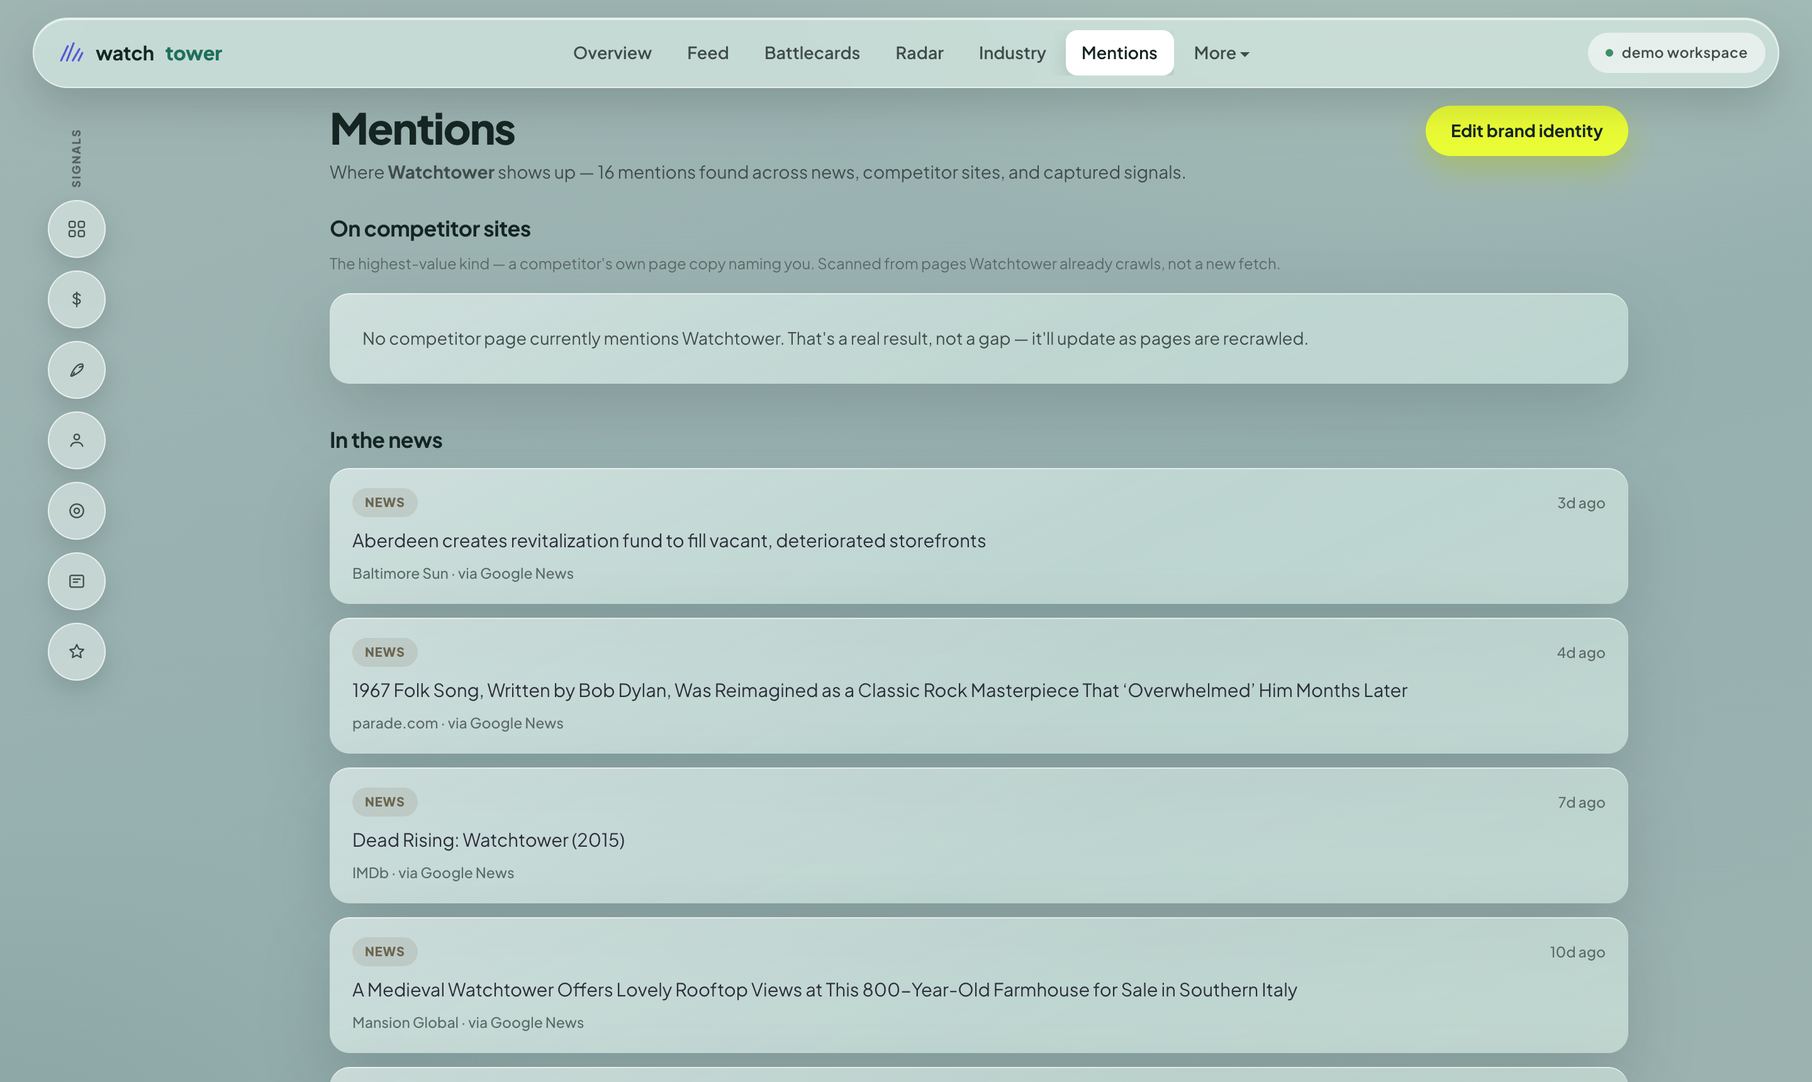
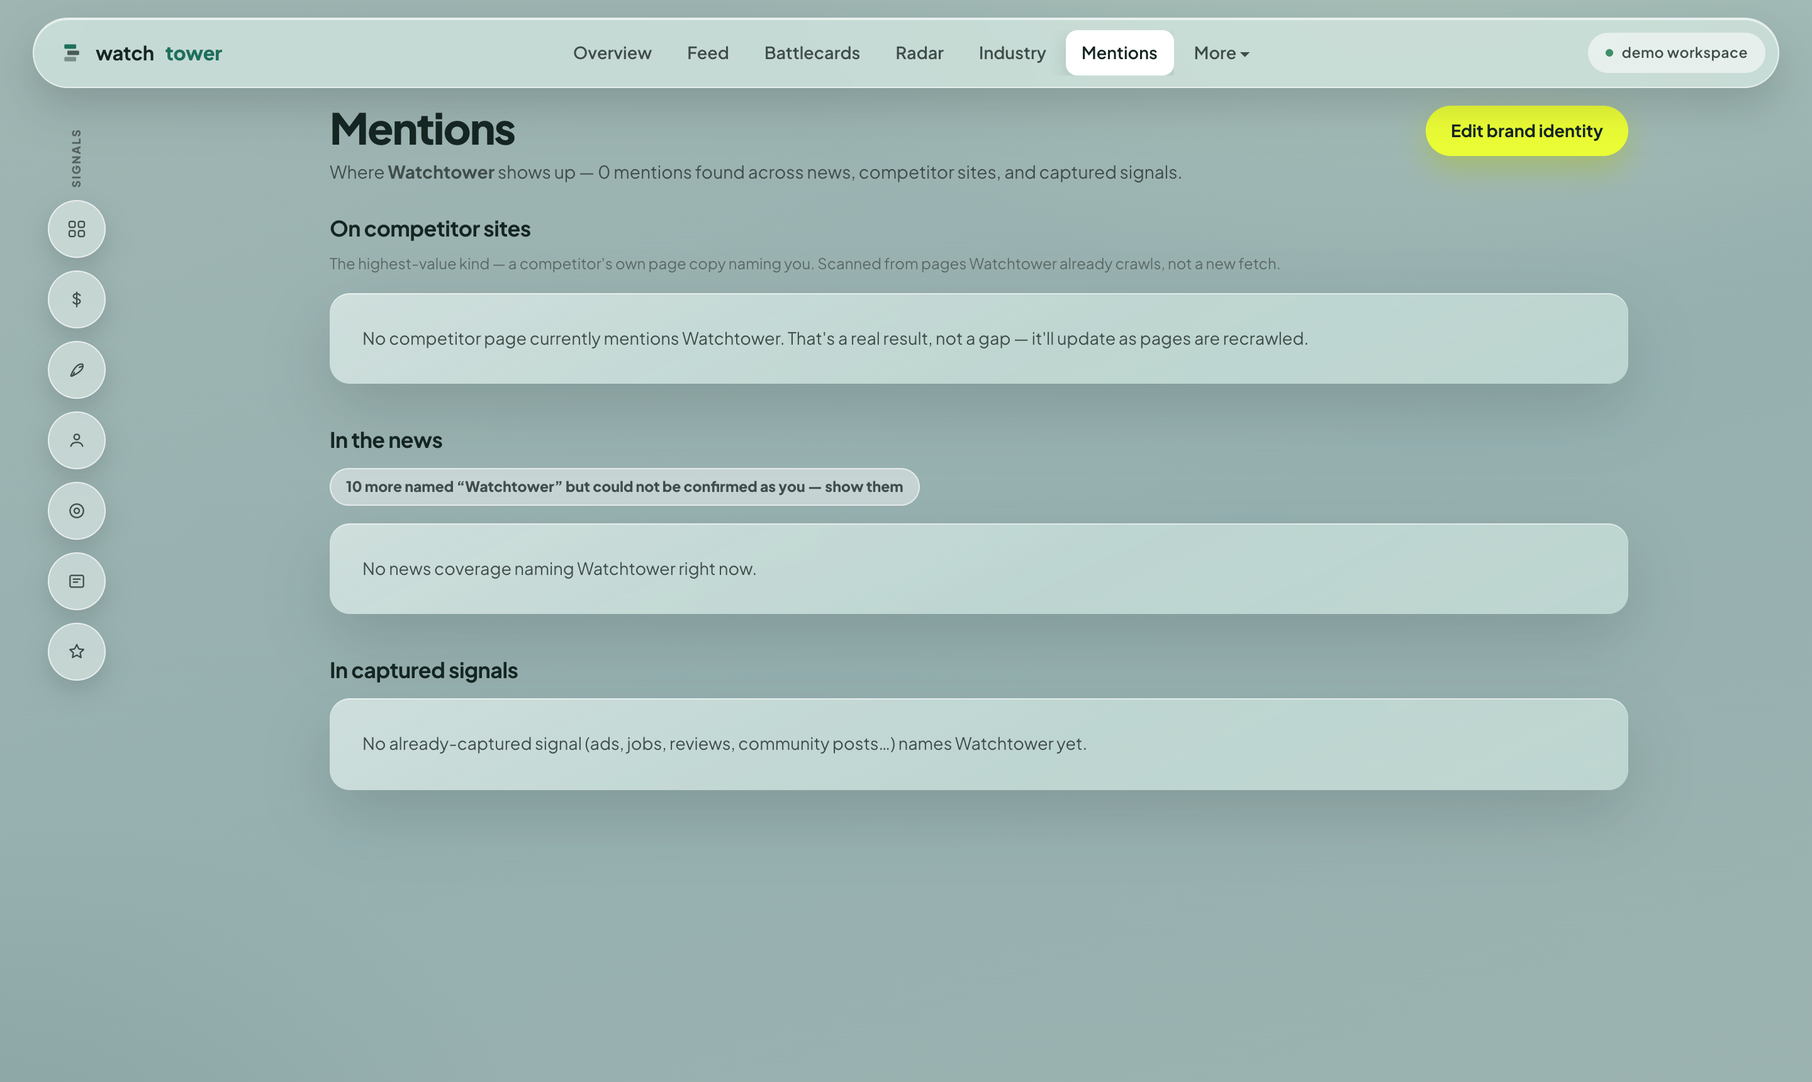
mobile chart + ask, mention disambiguation, fresh screenshots
Overview on a phone
- the chart's 700×190 box scaled to ~300×80: twenty-six needles ten pixels
  apart, which is noise, not a chart. Below 820px it drops to the last
  thirteen weeks in a squarer box and rescales to that window — a six-month
  peak was flattening a three-month view. Caption follows in CSS so the page
  stays server-rendered. Desktop is untouched.
- Ask was a full-width slab: heading, full-width field, full-width button,
  three stacked chips — 300px before any content. Button moves beside the
  field and drops to its glyph, suggestions scroll sideways. Now 134px.
- "Beyond the walls" ran straight on from the scout reports and read as more
  of the same card. It gets its own inset panel.
- the Add-competitor CTA only takes its own row below 360px, not at 375.

Mentions — this is the important one
Searching Google News for "Watchtower" returned ten results: the Dylan/Hendrix
song (x3), a prog-metal band, a 2015 movie, a medieval farmhouse, a DC comic.
Zero about the company. A bare keyword match is an alert, not intelligence,
and it would embarrass us in front of a client with a common brand name.

Every item that carries the brand name is now classified against context the
workspace owns — its domain, its tracked competitors, salient words from its
own description:
  client      corroborated by something the workspace owns  → shown
  same_name   reads as a different entity of the same name  → disclosed
[…]

Changed region(s): [[0.1562, 0.4314, 0.9062, 1.0], [0.3438, 0.1541, 0.6562, 0.1849], [0.0312, 0.0308, 0.0625, 0.0616]]

diff --git a/src/lib/mentions.ts b/src/lib/mentions.ts
@@ -29,12 +29,105 @@ export interface BrandMentions {
   configured: boolean;
   brandName: string;
   news: NewsItem[];
+  /** Read as a different entity sharing the name — reported, never silently dropped. */
+  newsSameName: NewsItem[];
+  /** Carries the name with nothing to confirm or deny it — the honest middle. */
+  newsUnverified: NewsItem[];
+  /** True when the workspace gave us nothing to disambiguate against, so
+   *  `news` is a raw name match rather than a confirmed one. */
+  newsUnconfirmed: boolean;
   siteMentions: SiteMention[];
   signalMentions: SignalMention[];
 }
 
 function escapeRe(s: string): string {
   return s.replace(/[.*+?^${}()|[\]\\]/g, '\\$&');
+}
+
+// Brand names are rarely unique words. Searching Google News for "Watchtower"
+// returns the Jehovah's Witnesses magazine, a thrash band, a venue and a
+// concert listing long before it returns anything about this company. A bare
+// name search is a keyword alert, not intelligence.
+//
+// So the name has to co-occur with something from THIS market before we call
+// it a mention: the brand's own domain, a tracked competitor, or a salient
+// word from how the workspace describes itself. Items that only match the
+// bare name are counted and reported rather than silently dropped — an
+// over-tight filter that hides a real mention is the worse failure.
+const CTX_STOP = new Set([
+  'the', 'and', 'for', 'with', 'that', 'this', 'from', 'into', 'your', 'our', 'their', 'they', 'you', 'are',
+  'was', 'were', 'has', 'have', 'had', 'not', 'but', 'all', 'any', 'can', 'will', 'more', 'most', 'other',
+  'than', 'then', 'them', 'what', 'when', 'which', 'who', 'why', 'how', 'about', 'every', 'each', 'also',
+  'company', 'companies', 'business', 'businesses', 'product', 'products', 'platform', 'team', 'teams',
+  'customer', 'customers', 'people', 'help', 'helps', 'make', 'makes', 'best', 'new', 'get', 'use', 'used',
+]);
+
+function salientWords(text: string | null | undefined, max: number): string[] {
+  if (!text) return [];
+  const seen = new Set<string>();
+  const out: string[] = [];
+  for (const raw of text.toLowerCase().split(/[^a-z0-9-]+/)) {
+    if (raw.length < 4 || CTX_STOP.has(raw) || seen.has(raw)) continue;
+    seen.add(raw);
+    out.push(raw);
+    if (out.length >= max) break;
+  }
+  return out;
+}
+
+/** Terms that, alongside the brand name, mark an item as being about US. */
+export function contextTerms(
+  settings: { brandDomain: string | null; description: string | null; competencies: string | null },
+  competitorNames: string[],
+): string[] {
+  const terms: string[] = [];
+  if (settings.brandDomain) {
+    const bare = settings.brandDomain.replace(/^https?:\/\//, '').replace(/^www\./, '');
+    terms.push(bare);
+    const label = bare.split('.')[0];
+    if (label.length >= 4) terms.push(label);
+  }
+  terms.push(...competitorNames.filter((n) => n.length >= 4).map((n) => n.toLowerCase()));
+  terms.push(...salientWords(settings.description, 6));
+  terms.push(...salientWords(settings.competencies, 4));
+  return [...new Set(terms)].slice(0, 14);
+}
+
+/** What an item that carries the brand name actually turned out to be. */
+export type MentionVerdict = 'client' | 'same_name' | 'unverified';
+
+export interface ClassifiedNews {
+  item: NewsItem;
+  verdict: MentionVerdict;
+  /** The context term that placed it, when there is one. */
+  matched?: string;
+}
+
+// Common senses a short brand word collides with. This never decides on its own
+// — it only downgrades an item that ALSO failed to match any workspace context,
+// so a client genuinely in the music or film business is not silently muted.
+const OTHER_SENSE =
+  /\b(song|album|guitar(ist)?|bassist|drummer|band|tour|concert|gig|setlist|venue|festival|lyrics?|single|remix|rock|metal|episode|season|movie|film|trailer|comic|novel|magazine|church|congregation|castle|fortress|ruins?|medieval)\b/i;
+
+/**
+ * Classify one item that matched the brand name.
+ *
+ * `client`      — corroborated by something this workspace owns
+ * `same_name`   — reads as a different entity of the same name
+ * `unverified`  — carries the name, nothing to confirm or deny it
+ *
+ * The third bucket is the fallback that has to exist: when a workspace has no
+ * domain, no description and no competitors yet, there is nothing to
+ * disambiguate against, and pretending otherwise would either hide real
+ * coverage or wave through a concert listing.
+ */
+export function classifyMention(item: NewsItem, terms: string[]): ClassifiedNews {
+  const hay = `${item.title} ${(item as { description?: string }).description ?? ''} ${item.url}`.toLowerCase();
+  const matched = terms.find((t) => hay.includes(t));
+  if (matched) return { item, verdict: 'client', matched };
+  if (terms.length === 0) return { item, verdict: 'unverified' };
+  if (OTHER_SENSE.test(hay)) return { item, verdict: 'same_name' };
+  return { item, verdict: 'unverified' };
 }
 
 function snippetAround(text: string, index: number, matchLen: number, radius = 90): string {
@@ -48,21 +141,45 @@ function snippetAround(text: string, index: number, matchLen: number, radius = 9
 export async function findBrandMentions(orgId: string): Promise<BrandMentions> {
   const settings = await getBrandSettings(orgId);
   if (!settings.configured || !settings.brandName.trim()) {
-    return { configured: false, brandName: '', news: [], siteMentions: [], signalMentions: [] };
+    return { configured: false, brandName: '', news: [], newsSameName: [], newsUnverified: [], newsUnconfirmed: false, siteMentions: [], signalMentions: [] };
   }
   const names = [settings.brandName, ...settings.aliases].filter(Boolean).slice(0, 4);
   const db = await getDb();
 
-  // 1) News — one RSS search per name/alias (capped), merged and deduped by URL.
-  const newsLists = await Promise.all(names.map((n) => fetchGoogleNewsRss(`"${n}"`, 8)));
+  // 1) News — the name alone is not enough (see contextTerms above). The query
+  // is narrowed with market context, and whatever still comes back is checked
+  // against the same terms before it counts as a mention.
+  const compNames = await db.query<{ name: string }>('SELECT name FROM competitors WHERE org_id = $1', [orgId]);
+  const terms = contextTerms(settings, compNames.map((c) => c.name));
+  const narrow = terms.slice(0, 6).map((t) => `"${t}"`).join(' OR ');
+  // Two passes: the narrowed query is what finds real coverage, and the bare
+  // one exists so we can say how much noise carries the name. Both are cached.
+  const newsLists = await Promise.all([
+    ...names.map((n) => fetchGoogleNewsRss(narrow ? `"${n}" (${narrow})` : `"${n}"`, 8)),
+    ...(narrow ? names.slice(0, 2).map((n) => fetchGoogleNewsRss(`"${n}"`, 10)) : []),
+  ]);
   const seenUrls = new Set<string>();
   const news: NewsItem[] = [];
+  const newsSameName: NewsItem[] = [];
+  const newsUnverified: NewsItem[] = [];
   for (const list of newsLists) {
     for (const item of list) {
       if (seenUrls.has(item.url)) continue;
       seenUrls.add(item.url);
-      news.push(item);
+      const { verdict } = classifyMention(item, terms);
+      if (verdict === 'client') news.push(item);
+      else if (verdict === 'same_name') newsSameName.push(item);
+      else newsUnverified.push(item);
     }
+  }
+  // Fallback. A workspace with no domain, no description and no competitors
+  // yet has nothing to disambiguate against, so EVERYTHING lands in
+  // 'unverified' — and showing that client an empty page would be a worse lie
+  // than showing them an unconfirmed list. Promote it, flagged, and let the
+  // page say why. Once they fill in their identity this branch stops firing.
+  const unconfirmed = terms.length === 0;
+  if (unconfirmed && news.length === 0) {
+    news.push(...newsUnverified.splice(0, newsUnverified.length));
   }
   news.sort((a, b) => (b.publishedAt ?? '').localeCompare(a.publishedAt ?? ''));
 
@@ -106,5 +223,5 @@ export async function findBrandMentions(orgId: string): Promise<BrandMentions> {
     .filter((r) => nameRe.test(r.title))
     .map((r) => ({ competitorName: r.name, competitorSlug: r.slug, channel: r.channel, title: r.title, url: r.url, at: r.published_at ?? r.created_at }));
 
-  return { configured: true, brandName: settings.brandName, news, siteMentions, signalMentions };
+  return { configured: true, brandName: settings.brandName, news, newsSameName, newsUnverified, newsUnconfirmed: unconfirmed, siteMentions, signalMentions };
 }

diff --git a/app/(app)/overview/GlassChart.tsx b/app/(app)/overview/GlassChart.tsx
@@ -2,11 +2,16 @@
 // Interactive needle-bars + momentum-curve chart: the flag and crosshair
 // follow the cursor (nearest week), defaulting to the peak week. Pure SVG,
 // no chart lib — geometry mirrors the server layout so there's no jump.
-import { useMemo, useRef, useState } from 'react';
+import { useEffect, useMemo, useRef, useState } from 'react';
 
 export interface ChartWeek { key: string; nice: string; label: string; product: number; gtm: number; market: number }
 
-const CW = 700, CH = 190, TOP = 64, NEEDLE = 4.5;
+// Desktop is a wide, shallow band. On a phone the same 700×190 box scales to
+// roughly 300×80 — twenty-six needles about ten pixels apart, which reads as
+// noise rather than a chart. The compact view drops to the last thirteen weeks
+// in a squarer box, so each week actually has room.
+const WIDE = { CW: 700, CH: 190, TOP: 64, NEEDLE: 4.5, SPAN: 26 };
+const COMPACT = { CW: 360, CH: 210, TOP: 74, NEEDLE: 7, SPAN: 13 };
 
 function smoothPath(pts: [number, number][]): string {
   if (pts.length < 2) return '';
@@ -18,12 +23,42 @@ function smoothPath(pts: [number, number][]): string {
   return dPath;
 }
 
-export default function GlassChart({ weeks, maxWeek, monthTicks }: { weeks: ChartWeek[]; maxWeek: number; monthTicks: { idx: number; label: string }[] }) {
+export default function GlassChart({ weeks: allWeeks, maxWeek: fullMax, monthTicks: _ignored }: { weeks: ChartWeek[]; maxWeek: number; monthTicks: { idx: number; label: string }[] }) {
+  void _ignored; // ticks are re-derived below, because the window can be sliced
   const svgRef = useRef<SVGSVGElement>(null);
+  const [hover, setHover] = useState<number | null>(null);
+
+  // Measured after mount rather than guessed, so the server and the first
+  // client render agree and there is no hydration mismatch.
+  const [compact, setCompact] = useState(false);
+  useEffect(() => {
+    const mq = window.matchMedia('(max-width: 820px)');
+    const sync = () => setCompact(mq.matches);
+    sync();
+    mq.addEventListener('change', sync);
+    return () => mq.removeEventListener('change', sync);
+  }, []);
+
+  const { CW, CH, TOP, NEEDLE, SPAN } = compact ? COMPACT : WIDE;
+  const weeks = useMemo(() => (allWeeks.length > SPAN ? allWeeks.slice(-SPAN) : allWeeks), [allWeeks, SPAN]);
+  // Rescale to the visible window: a six-month peak flattens a three-month view.
+  const maxWeek = useMemo(
+    () => Math.max(1, ...weeks.map((w) => w.product + w.gtm + w.market)),
+    [weeks],
+  );
+  void fullMax;
+  const monthTicks = useMemo(() => {
+    const out: { idx: number; label: string }[] = [];
+    let last = '';
+    weeks.forEach((w, i) => {
+      if (w.label !== last) { out.push({ idx: i, label: w.label }); last = w.label; }
+    });
+    return out;
+  }, [weeks]);
+
   const totals = useMemo(() => weeks.map((w) => w.product + w.gtm + w.market), [weeks]);
   const peak = useMemo(() => totals.reduce((best, v, i) => (v > totals[best] ? i : best), 0), [totals]);
-  const [hover, setHover] = useState<number | null>(null);
-  const idx = hover ?? peak;
+  const idx = Math.min(hover ?? peak, weeks.length - 1);
 
   const GAP = (CW - 30 - weeks.length * NEEDLE) / (weeks.length + 1);
   const bx = (i: number) => GAP + i * (NEEDLE + GAP);
@@ -42,7 +77,8 @@ export default function GlassChart({ weeks, maxWeek, monthTicks }: { weeks: Char
   const area = `${curve} L ${curvePts[curvePts.length - 1][0]} ${CH} L ${curvePts[0][0]} ${CH} Z`;
 
   const w = weeks[idx];
-  const flagX = Math.min(Math.max(bx(idx) - 62, 4), CW - 178);
+  const FLAG_W = compact ? 186 : 172;
+  const flagX = Math.min(Math.max(bx(idx) - FLAG_W / 2.8, 4), CW - FLAG_W - 6);
 
   function onMove(e: React.MouseEvent<SVGSVGElement>) {
     const rect = svgRef.current?.getBoundingClientRect();
@@ -85,8 +121,8 @@ export default function GlassChart({ weeks, maxWeek, monthTicks }: { weeks: Char
       ))}
       <path d={curve} className="gx-curve" />
       <g className="gx-flag">
-        <line x1={bx(idx) + NEEDLE / 2} y1={84} x2={bx(idx) + NEEDLE / 2} y2={CH - barH(totals[idx])} />
-        <rect x={flagX} y={20} width={172} height={62} rx={12} />
+        <line x1={bx(idx) + NEEDLE / 2} y1={84} x2={bx(idx) + NEEDLE / 2} y2={Math.max(84, CH - barH(totals[idx]))} />
+        <rect x={flagX} y={20} width={FLAG_W} height={62} rx={12} />
         <text x={flagX + 13} y={38} className="gx-flag-d">Week of {w.nice}</text>
         <rect x={flagX + 11} y={45} width={8} height={8} rx={2.5} className="fr1" />
         <text x={flagX + 24} y={52.5} className="gx-flag-r">{totals[idx]} event{totals[idx] === 1 ? '' : 's'}</text>

diff --git a/app/(app)/overview/overview.css b/app/(app)/overview/overview.css
@@ -84,6 +84,7 @@
 /* chart */
 .gx-chartwrap{min-width:0}
 .gx-chart-meta{font-size:11.5px;color:var(--faint);font-weight:700;margin-bottom:4px}
+.gx-chart-meta .meta-compact{display:none}
 .gx-chart{width:100%;height:auto;display:block}
 .gx-chart.live{cursor:crosshair}
 .gx-wlab{font-size:10px;fill:var(--faint);font-weight:700;letter-spacing:.04em}
@@ -238,6 +239,8 @@
   .gx-lime{margin-left:auto;font-size:12.5px;padding:9px 15px;white-space:nowrap;box-shadow:0 6px 16px rgba(170,190,20,.4)}
   .gx-hey{margin-left:0;text-align:left;width:100%}
   .gx-profile > .gx-icb.round-lg{display:none}
+  .gx-chart-meta .meta-wide{display:none}
+  .gx-chart-meta .meta-compact{display:inline}
   .gx-info-ic{width:34px;height:34px;margin-bottom:10px}
   .gx-info-ic svg{width:15px;height:15px}
 
@@ -246,14 +249,39 @@
   .gx-report{flex-wrap:wrap;align-items:center;gap:5px 10px}
   .gx-report-text{flex:1 0 100%;-webkit-line-clamp:3}
 
+  /* Stacked, "Beyond the walls" ran straight on from the scout reports and
+     read as more of the same card. It gets a real break: its own inset panel
+     rather than a rule someone has to notice. */
+  .gx-rcol{padding:6px 16px}
+  .gx-reports{gap:14px}
+  .gx-rcol:last-child:not(.wide){
+    margin:6px 10px 0;padding:16px;border-radius:20px;
+    background:rgba(255,255,255,.34);border:1px solid rgba(255,255,255,.6)}
+  .gx-rcol:last-child:not(.wide) .gx-pulse:first-of-type{border-top:none}
+
+  /* Ask sat as a full-width slab above the field. The copy is a label, not a
+     pitch — it belongs beside the input, at label size. */
+  .gx-askhero{display:grid;grid-template-columns:1fr auto;align-items:center;
+    gap:4px 12px;padding:2px 16px 16px}
+  .gx-askhero-copy h3{font-size:14px;margin:0}
+  .gx-askhero-copy p{display:none}
+  .gx-askhero-main{grid-column:1 / -1}
+
   /* layout */
   .gx-body{grid-template-columns:1fr;gap:20px}
-  .gx-askhero{padding:2px 16px 18px;gap:16px}
-  .gx-askhero-copy h3{font-size:18px}
   .gx-askhero-copy p{max-width:none}
   .gx-askhero-main{min-width:0;width:100%}
-  .gx-askhero-form{flex-direction:column}
-  .gx-askhero-form button{padding:13px 22px}
+  /* Ask button sits to the right of the field rather than under it, and drops
+     to its glyph — stacked, the two full-width pills were most of the block. */
+  .gx-askhero-form{flex-direction:row;gap:8px}
+  .gx-askhero-form input{font-size:14px;padding:12px 16px}
+  .gx-askhero-form button{flex:none;padding:0 16px;font-size:0;gap:0}
+  .gx-askhero-form button span{font-size:17px}
+  /* suggestions scroll sideways instead of stacking into three rows */
+  .gx-askhero-sugs{flex-wrap:nowrap;overflow-x:auto;scrollbar-width:none;
+    margin:10px -16px 0;padding:0 16px 2px}
+  .gx-askhero-sugs::-webkit-scrollbar{display:none}
+  .gx-askhero-sugs a{flex:none;font-size:11px;padding:6px 12px}
   .gx-band.three,.gx-band.two{grid-template-columns:1fr}
   .gx-bcol{border-right:none !important;border-bottom:1px solid rgba(255,255,255,.5);padding:20px 16px}
   .gx-bcol:last-child{border-bottom:none}
@@ -261,7 +289,7 @@
   .gx-chips a{font-size:12px;padding:6px 12px 6px 6px}
   .gx-chips a:first-child{padding-left:12px}
 }
-@media(max-width:400px){
+@media(max-width:360px){
   .gx-big{font-size:38px}
   /* below ~360 the CTA squeezes the name column to nothing — give it a row */
   .gx-me{flex-wrap:wrap}

diff --git a/app/(app)/mentions/page.tsx b/app/(app)/mentions/page.tsx
@@ -76,6 +76,35 @@ export default async function Mentions() {
         )}
 
         <h3 className="admin-h">In the news</h3>
+        {m.newsUnconfirmed && m.news.length > 0 && (
+          <p className="sub" style={{ marginTop: -4 }}>
+            These are raw name matches — add your domain and a line about what you do in{' '}
+            <a href="/mentions#brand" style={{ fontWeight: 700 }}>brand settings</a> and the Tower can tell your
+            coverage apart from anyone else called {m.brandName}.
+          </p>
+        )}
+        {(m.newsSameName.length > 0 || m.newsUnverified.length > 0) && (
+          <details className="bundle" style={{ marginBottom: 14 }}>
+            <summary>
+              {m.newsSameName.length + m.newsUnverified.length} more named &ldquo;{m.brandName}&rdquo; but could not be
+              confirmed as you — show them
+            </summary>
+            <ul className="bundle-items">
+              {m.newsSameName.map((n) => (
+                <li key={n.url}>
+                  <a href={n.url} target="_blank" rel="noreferrer">{n.title}</a>
+                  <span className="howknow"> — reads as a different {m.brandName} (same name, other field)</span>
+                </li>
+              ))}
+              {m.newsUnverified.map((n) => (
+                <li key={n.url}>
+                  <a href={n.url} target="_blank" rel="noreferrer">{n.title}</a>
+                  <span className="howknow"> — names you, nothing in it ties back to your market</span>
+                </li>
+              ))}
+            </ul>
+          </details>
+        )}
         {m.news.length === 0 ? (
           <div className="empty">No news coverage naming {m.brandName} right now.</div>
         ) : (

diff --git a/app/(marketing)/marketing.css b/app/(marketing)/marketing.css
@@ -36,8 +36,11 @@
   background:rgba(240,247,243,.62);backdrop-filter:blur(24px) saturate(140%);-webkit-backdrop-filter:blur(24px) saturate(140%);
   border:1px solid rgba(255,255,255,.55);border-radius:999px;
   box-shadow:0 14px 34px rgba(16,30,28,.18), inset 0 1px 0 rgba(255,255,255,.6)}
-.mkt-logo{display:flex;align-items:center;gap:10px;font-weight:750;font-size:17px;letter-spacing:-.02em}
-.mkt-logo svg{width:26px;height:26px;flex:none}
+.mkt-logo{display:flex;align-items:center;gap:7px;font-weight:750;font-size:17px;letter-spacing:-.02em}
+.mkt-logo svg{width:30px;height:30px;flex:none}
+/* the footer lockup is the sign-off, so it runs a size up from the menu */
+.mkt-footer .mkt-logo{gap:8px;font-size:19px}
+.mkt-footer .mkt-logo svg{width:35px;height:35px}
 /* One flex child, so the container's gap cannot open a space inside the
    wordmark — that is what was rendering it as "watch tower". */
 .mkt-logo .wm{color:var(--a-ink)}

diff --git a/app/(app)/overview/page.tsx b/app/(app)/overview/page.tsx
@@ -79,7 +79,13 @@ export default async function Overview({ searchParams }: { searchParams: Promise
             </div>
 
             <div className="gx-chartwrap">
-              <div className="gx-chart-meta"><span>last 6 months · hover to inspect</span></div>
+              {/* the chart itself narrows to 3 months below 820px, so the
+                  caption has to agree — swapped in CSS, not JS, to keep this
+                  server-rendered */}
+              <div className="gx-chart-meta">
+                <span className="meta-wide">last 6 months · hover to inspect</span>
+                <span className="meta-compact">last 3 months · tap to inspect</span>
+              </div>
               <GlassChart weeks={d.weeks} maxWeek={d.maxWeek} monthTicks={d.monthTicks} />
               <div className="gx-chips">
                 <a href="/overview" className={!d.focusComp ? 'on' : ''}>All</a>
